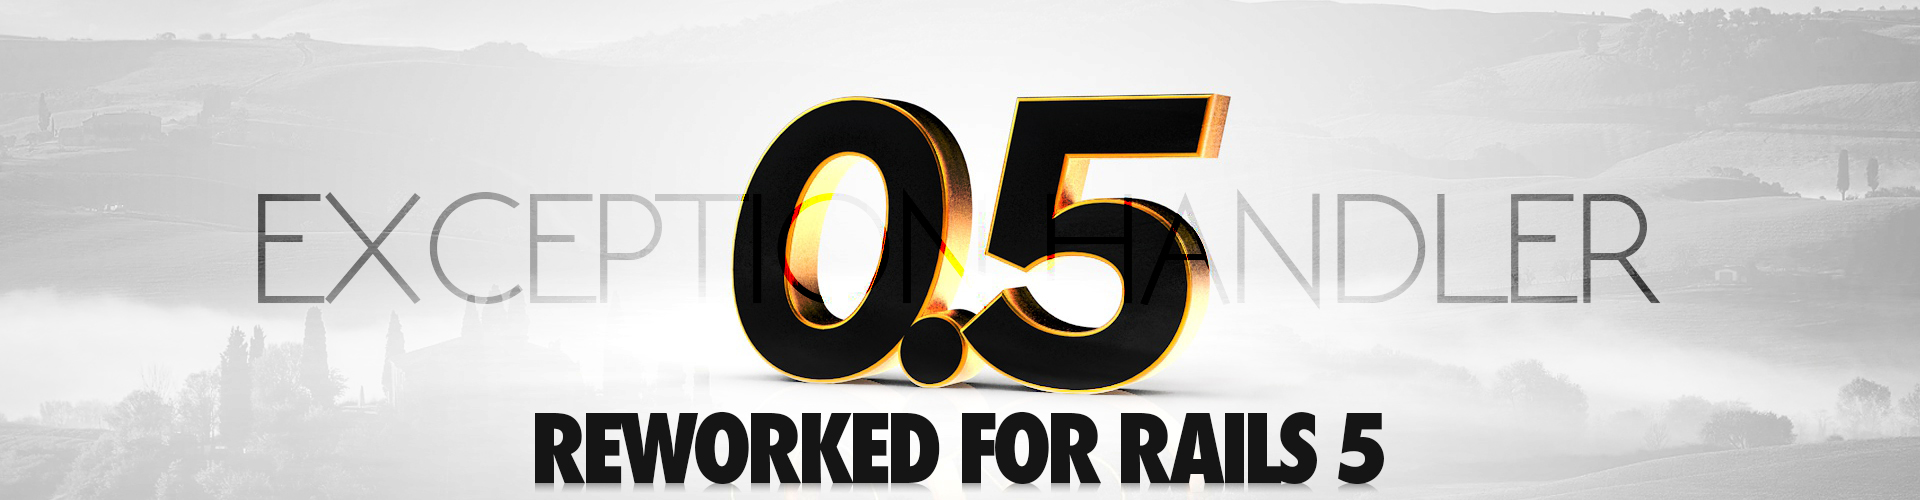
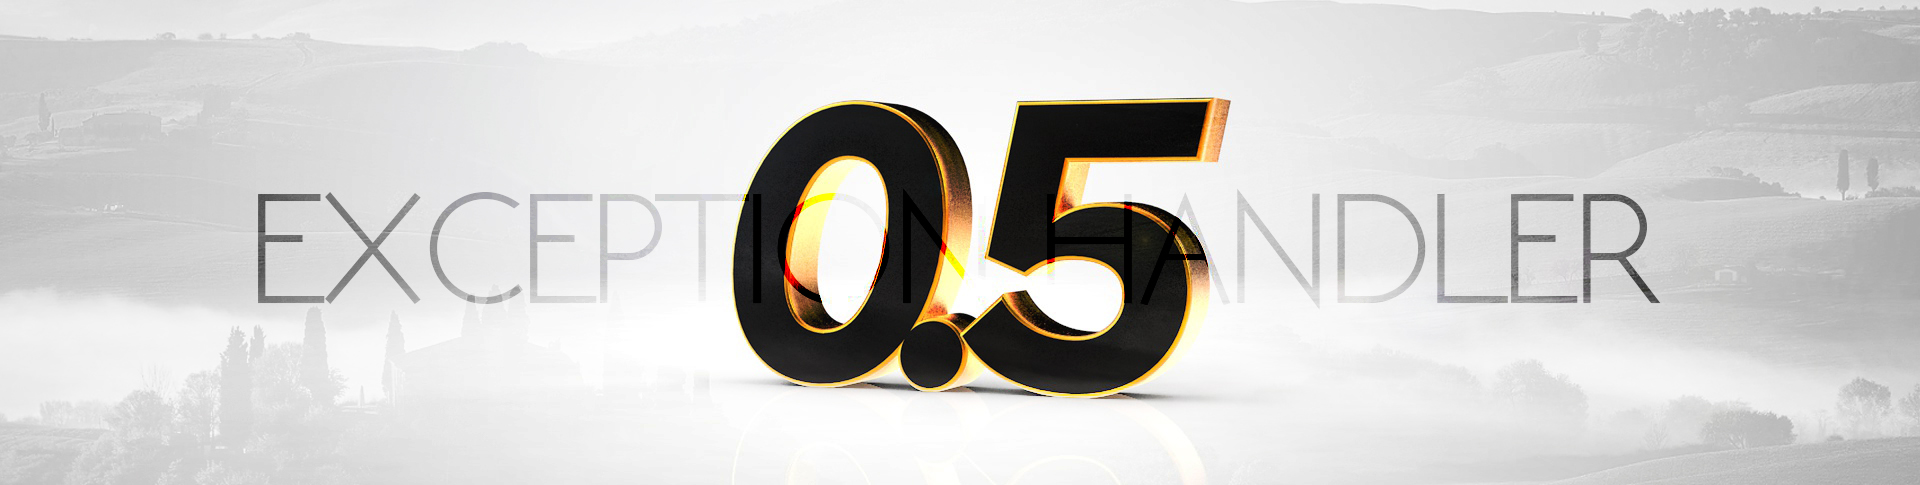
reworked
Former-commit-id: a40f032e1b6e0ddef9afa4d032152be6f549d8d8
Former-commit-id: 1defe4c5be7f9f0512b2be1e8b0fcc63c932420a

diff --git a/README.md b/README.md
@@ -45,7 +45,7 @@ The most feature-rich, stable & effective solution for **custom error pages** in
 
 <p align="center">
   <img src="readme/05.jpg" title="Reworked for Rails 5" />
-  <img src="readme/titles/readme.jpg" title="Reworked for Rails 5" />
+  <img src="readme/titles/reworked.jpg" title="Reworked for Rails 5" />
 </p>
 
 <p align="center">
